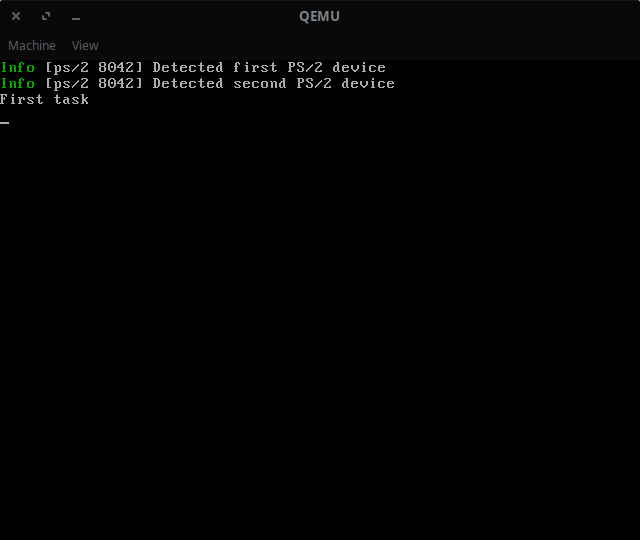
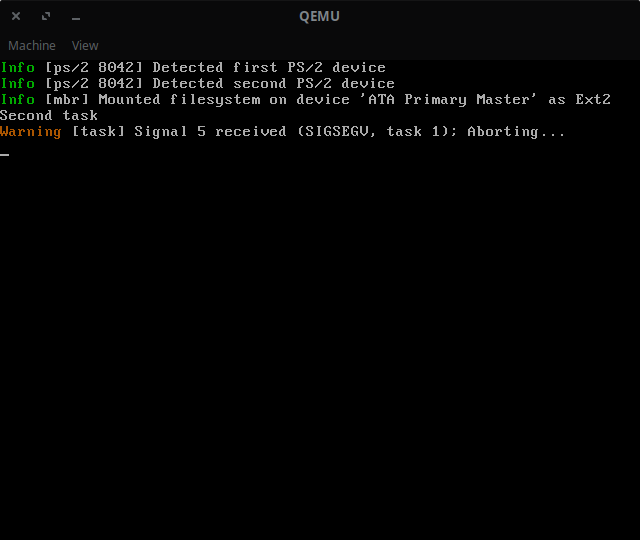
Signals

diff --git a/kernel/task.c b/kernel/task.c
@@ -1,5 +1,5 @@
 #include <kernel/types.h>
-#include <kernel/tty.h>
+#include <kernel/panic.h>
 #include <kernel/string.h>
 #include <kernel/mm/gdt.h>
 #include <kernel/driver/pit.h>
@@ -7,6 +7,16 @@
 #include <kernel/mm/paging.h>
 #include <kernel/mm/heap.h>
 #include <kernel/task.h>
+
+static const char *signames[TASK_NSIG] = {
+	"SIGNONE",
+	"SIGABRT",
+	"SIGFPE",
+	"SIGKILL",
+	"SIGINT",
+	"SIGSEGV",
+	"SIGTERM",
+};
 
 #define KSTACKSZ 16384 /* process kernel stack size */
 
@@ -28,6 +38,7 @@ static struct task_list *ready = NULL;
 static struct task_list *paused = NULL;
 static struct task_list *sleeping = NULL;
 static struct task_list *terminated = NULL;
+static struct task_list *signaled = NULL;
 
 static uint64_t timens = 0; /* time in nanoseconds */
 
@@ -76,6 +87,15 @@ static void task_move_to_list(struct task_list *dest, struct task_list *src, tas
 	task_add_to_list(dest, task);
 }
 
+/* cpu exception isr */
+static void task_isr(idt_regs_t *regs) {
+	
+	task_raise(TASK_SIGSEGV);
+
+	/* wait until the signal is handled completely */
+	while (!task_active->sigdone) asm volatile("hlt");
+}
+
 /* pit irq */
 static void task_irq(idt_regs_t *regs) {
 
@@ -108,7 +128,17 @@ static void task_irq(idt_regs_t *regs) {
 			task_unblock(cur);
 		}
 
-		cur = cur->next;
+		cur = next;
+	}
+
+	/* wake up signaled tasks */
+	cur = signaled->first;
+	while (cur) {
+
+		task_t *next = cur->next;
+
+		task_unblock(cur);
+		cur = next;
 	}
 
 	/* end of time slice */
@@ -116,6 +146,32 @@ static void task_irq(idt_regs_t *regs) {
 		task_schedule();
 
 	task_unlockpost();
+
+	/* task was signaled */
+	if (task_active->sig) {
+
+		task_lockcli();
+
+		uint32_t sig = task_active->sig;
+		task_active->sig = 0;
+
+		task_sig_t sigh = task_active->sigh[sig];
+		if (!sigh) {
+
+			kprintf(LOG_WARNING, "[task] Signal %d received (%s, task %d); Aborting...", (int)sig, signames[sig], (int)task_active->id);
+
+			task_unlockcli();
+			task_terminate();
+		}
+
+		*TASK_STACK_ADDR_SIGHANDLER = (uint32_t)sigh;
+		*TASK_STACK_ADDR_SIGEIP = regs->eip;
+
+		regs->eip = (uint32_t)TASK_SIGH_ADDR;
+
+		task_active->sigdone = true;
+		task_unlockcli();
+	}
 }
 
 /* allocate necessary memory before heap */
@@ -136,6 +192,7 @@ extern void task_init(void) {
 	paused = &lists[TASK_PAUSED];
 	sleeping = &lists[TASK_SLEEPING];
 	terminated = &lists[TASK_TERMINATED];
+	signaled = &lists[TASK_SIGNALED];
 
 	ktask = task_new(&kernel_stack_top, NULL);
 	ktask->cr3 = page_get_directory();
@@ -145,6 +202,10 @@ extern void task_init(void) {
 	task_remove_from_list(ready, ktask); /* remove from ready list */
 
 	task_active = ktask;
+
+	/* setup isrs */
+	idt_set_isr_callback(IDT_ISR_GPFAULT, task_isr);
+	idt_set_isr_callback(IDT_ISR_PGFAULT, task_isr);
 
 	/* setup pit */
 	idt_disable_irq_eoi(PIT_IRQ);
@@ -191,6 +252,11 @@ extern task_t *task_new(void *esp, void *seteip) {
 	task->nticks = NTICKS;
 	task->id = id;
 	task->res = NULL;
+	task->sig = 0;
+	for (uint32_t i = 0; i < TASK_NSIG; i++)
+		task->sigh[i] = NULL;
+	task->stale = false;
+	task->sigdone = false;
 
 	task_add_to_list(ready, task);
 	taskmap[id] = task;
@@ -336,9 +402,24 @@ extern void task_sleep(uint32_t s) {
 	task_nano_sleep((uint64_t)s * 1000000000);
 }
 
+/* free pages used by current task */
+extern void task_free(void) {
+
+	task_lockcli();
+
+	for (uint32_t i = 0; i < TASK_STACK_END; i++) {
+
+		page_frame_id_t f = page_get_frame(i);
+		if (f) page_frame_free(f);
+	}
+
+	task_unlockcli();
+}
+
 /* terminate current task */
 extern void task_terminate(void) {
 
+	task_free();
 	task_block(TASK_TERMINATED);
 }
 
@@ -409,10 +490,10 @@ extern uint64_t task_get_global_time(void) {
 static void task_test(void) {
 
 	int counter = 0;
-	while (1) {
+	while (counter++ < 33554432);
 
-		if (counter++ >= 33554432) asm volatile("hlt");
-	}
+	asm volatile("hlt");
+	while (1);
 }
 
 extern void task_entry(void) {
@@ -428,6 +509,12 @@ extern void task_entry(void) {
 	stack += TASK_STACK_SIZE;
 
 	gdt_tss.esp0 = (uint32_t)task_active->esp0;
+
+	/* copy task_handle_signal function to be able to run it in userspace */
+	for (uint32_t i = TASK_SIGH_START; i< TASK_SIGH_END; i++)
+		page_map_flags(i, page_frame_alloc(), PAGE_FLAG_US);
+
+	memcpy(TASK_SIGH_ADDR, task_handle_signal, task_handle_signal_size);
 
 	/* go to user mode */
 	asm volatile(
@@ -447,4 +534,34 @@ extern void task_entry(void) {
 		"push $task_test\n"
 		"iret\n"
 		: : "r"(stack));
+}
+
+/* raise signal on current task */
+extern void task_raise(uint32_t sig) {
+
+	task_active->sig = sig;
+	task_active->sigdone = false;
+	task_block(TASK_SIGNALED);
+}
+
+/* raise signal on other task */
+extern void task_signal(task_t *task, uint32_t sig) {
+
+	if (task == task_active) {
+
+		task_raise(sig);
+		return;
+	}
+
+	task_lockcli();
+
+	task_remove_from_list(&lists[task->state], task);
+	task->state = TASK_SIGNALED;
+	task_add_to_list(signaled, task);
+
+	task->stale = true;
+	task->sigdone = false;
+	task->sig = sig;
+
+	task_unlockcli();
 }

diff --git a/include/kernel/task.h b/include/kernel/task.h
@@ -3,19 +3,43 @@
 
 #include <kernel/types.h>
 #include <kernel/mm/paging.h>
+#include <kernel/vfs/fs.h>
 
 #define TASK_READY 0
 #define TASK_RUNNING 1
 #define TASK_PAUSED 2
 #define TASK_SLEEPING 3
 #define TASK_TERMINATED 4
+#define TASK_SIGNALED 5
 
-#define TASK_NSTATES 5
+#define TASK_NSTATES 6
 
 #define TASK_STACK_START 8
 #define TASK_STACK_END 16
 #define TASK_STACK_SIZE 0x8000
 #define TASK_STACK_ADDR ((void *)0x8000)
+
+#define TASK_SIGH_START 7
+#define TASK_SIGH_END 8
+#define TASK_SIGH_ADDR ((void *)0x7000)
+
+/* have a place to store signal info */
+#define TASK_STACK_ADDR_SIGHANDLER ((uint32_t *)0x8000)
+#define TASK_STACK_ADDR_SIGEIP ((uint32_t *)0x8004)
+
+/* signals */
+#define TASK_SIGNONE 0
+
+#define TASK_SIGABRT 1
+#define TASK_SIGFPE 2
+#define TASK_SIGKILL 3
+#define TASK_SIGINT 4
+#define TASK_SIGSEGV 5
+#define TASK_SIGTERM 6
+
+#define TASK_NSIG 7
+
+typedef void (*task_sig_t)();
 
 /* task control block */
 typedef struct task {
@@ -31,6 +55,10 @@ typedef struct task {
 	uint32_t id; /* task id */
 	bool ownstack; /* owns kernel stack */
 	fs_node_t *res; /* held resource */
+	uint32_t sig; /* called signal */
+	task_sig_t sigh[TASK_NSIG]; /* signal handlers */
+	bool stale; /* a signal changed the task state */
+	bool sigdone; /* the signal is finished being handled */
 } task_t;
 
 extern task_t *ktask; /* base kernel task */
@@ -38,6 +66,8 @@ extern task_t *task_active; /* active task */
 
 extern uint32_t task_nlockpost; /* number of task switch locks */
 extern uint32_t task_postponed; /* postponed task switches */
+
+extern uint32_t task_handle_signal_size; /* size of signal handler routine */
 
 /* functions */
 extern void task_init_memory(void); /* allocate necessary memory before heap */
@@ -54,11 +84,15 @@ extern void task_unblock(task_t *task); /* unblock task */
 extern void task_nano_sleep_until(uint64_t waketime); /* sleep in nanoseconds until */
 extern void task_nano_sleep(uint64_t ns); /* sleep in nanoseconds */
 extern void task_sleep(uint32_t s); /* sleep in seconds */
+extern void task_free(void); /* free pages used by current task */
 extern void task_terminate(void); /* terminate current task */
 extern void task_cleanup(void); /* clean up terminated tasks */
 extern void task_acquire(fs_node_t *node); /* acquire resource */
 extern void task_release(void); /* release held resource */
 extern uint64_t task_get_global_time(void); /* get time for all tasks */
 extern void task_entry(void); /* task entry point */
+extern void task_raise(uint32_t sig); /* raise signal on current task */
+extern void task_signal(task_t *task, uint32_t sig); /* raise signal on other task */
+extern void task_handle_signal(void); /* routine to handle signal; do not call directly */
 
 #endif /* ECLAIR_TASK_H */

diff --git a/kernel/idt.c b/kernel/idt.c
@@ -125,8 +125,12 @@ extern void idt_set_gate(uint32_t n, void *p, uint8_t tp) {
 /* main isr handler */
 extern void idt_isr_handler(idt_regs_t *regs) {
 
-	kprintf(LOG_FATAL, "[idt] Exception: %d (code: 0x%x)", regs->n_int, regs->err_code);
-	kpanic(regs->n_int == 14? PANIC_CODE_FAULT: 0, "CPU exception", regs);
+	if (isrs[regs->n_int] != NULL) isrs[regs->n_int](regs);
+	else {
+
+		kprintf(LOG_FATAL, "[idt] Exception: %d (code: 0x%x)", regs->n_int, regs->err_code);
+		kpanic(regs->n_int == 14? PANIC_CODE_FAULT: 0, "CPU exception", regs);
+	}
 }
 
 /* main irq handler */
@@ -140,6 +144,13 @@ extern void idt_irq_handler(idt_regs_t *regs) {
 
 	port_outb(IDT_PIC0_CMD, IDT_PIC_CMD_EOI);
 	if (regs->n_int >= 40) port_outb(IDT_PIC1_CMD, IDT_PIC_CMD_EOI);
+}
+
+/* set isr callback */
+extern void idt_set_isr_callback(uint32_t n, idt_isr_t isr) {
+
+	if (n > 31) return;
+	isrs[n] = isr;
 }
 
 /* set irq callback */

diff --git a/include/kernel/idt.h b/include/kernel/idt.h
@@ -48,12 +48,16 @@ typedef struct idt_regs {
 
 typedef void (*idt_isr_t)(idt_regs_t *regs); /* custom handler */
 
+#define IDT_ISR_GPFAULT 13
+#define IDT_ISR_PGFAULT 14
+
 /* functions */
 extern void idt_init(void); /* initialize */
 extern void idt_enable(void); /* enable interrupts */
 extern void idt_set_gate(uint32_t n, void *p, uint8_t tp); /* set handler */
 extern void idt_isr_handler(idt_regs_t *regs); /* main isr handler */
 extern void idt_irq_handler(idt_regs_t *regs); /* main irq handler */
+extern void idt_set_isr_callback(uint32_t n, idt_isr_t isr); /* set isr callback */
 extern void idt_set_irq_callback(uint32_t n, idt_isr_t isr); /* set irq callback */
 extern void idt_send_eoi(void); /* send eoi command to first pic */
 extern void idt_disable_irq_eoi(uint32_t n); /* disable automatic eoi command for irqs */
